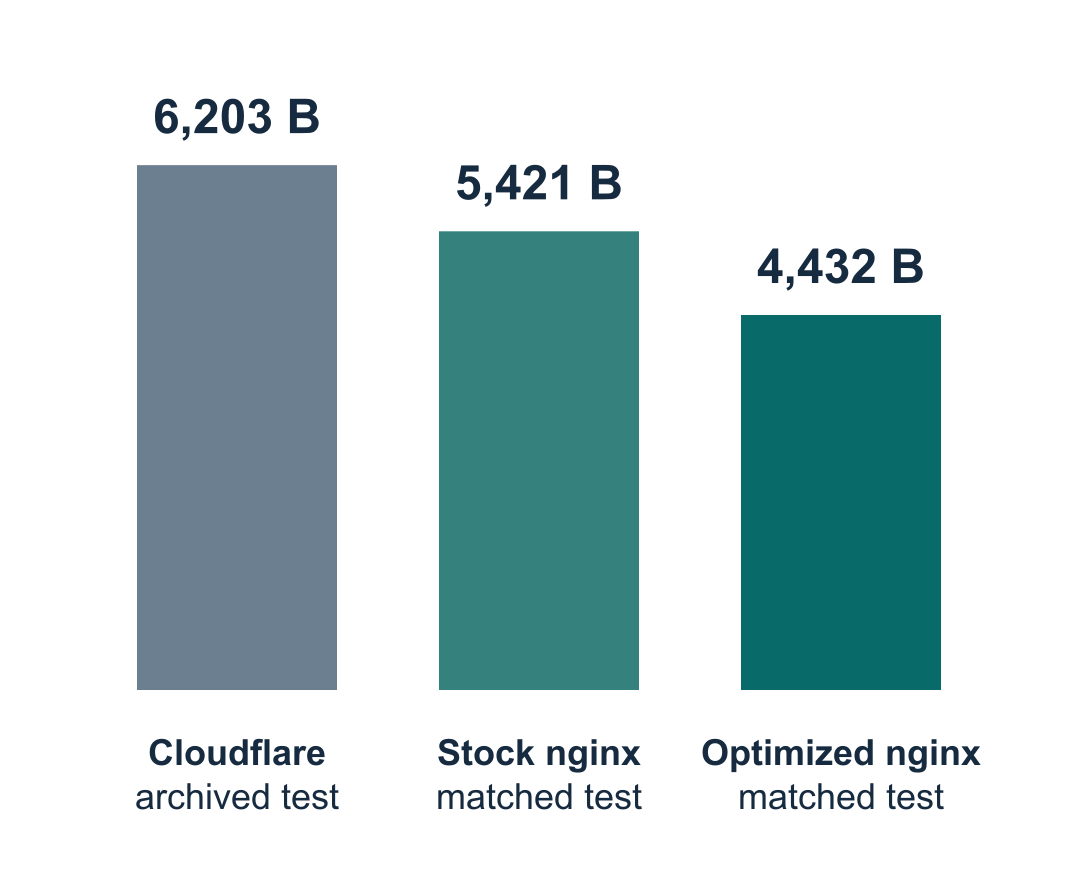
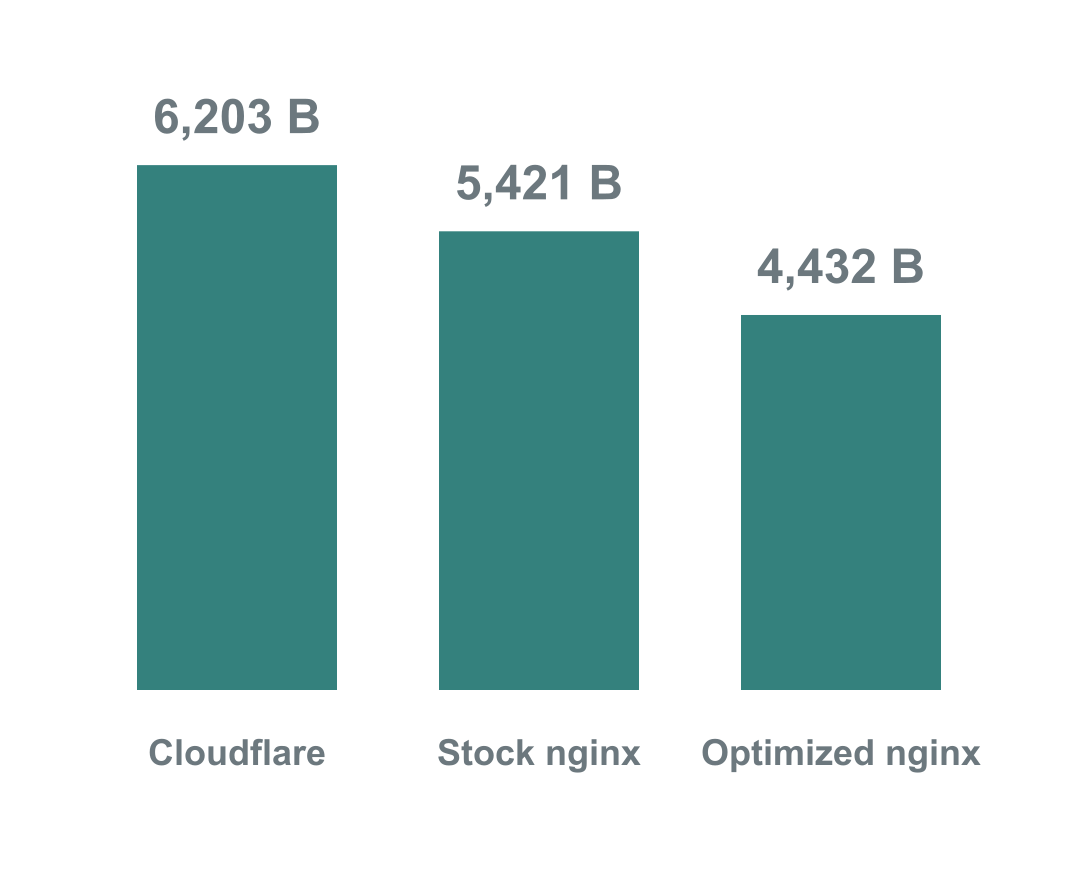
Make delivery chart transparent and theme aware

diff --git a/docs/delivery-overhead/README.md b/docs/delivery-overhead/README.md
@@ -4,9 +4,9 @@ The graph counts **TLS bytes sent and received on a cold connection through the 
 
 | Graph label | Overhead | Meaning |
 | --- | ---: | --- |
-| Cloudflare (archived) | 6,203 B | September 10, 2026 temporary-route control |
-| Default self-hosted (test) | 5,421 B | Stock nginx 1.30.4; median of 5,420 / 5,421 / 5,421 B |
-| Optimized self-hosted (test) | 4,432 B | Patched nginx 1.30.4; three samples of 4,432 B |
+| Cloudflare | 6,203 B | September 10, 2026 temporary-route control |
+| Stock nginx | 5,421 B | Stock nginx 1.30.4; median of 5,420 / 5,421 / 5,421 B |
+| Optimized nginx | 4,432 B | Patched nginx 1.30.4; three samples of 4,432 B |
 
 **The two self-hosted bars are matched test setups, not production measurements.** Both use the same generated ECDSA P-256 leaf/intermediate chain and explicit test CA. No production key or system trust store was accessed or changed. The [separate trusted live measurement](fresh-measurement.json) remains **5,252 B** with its different production certificate. It has not improved to 4,432 B.
 
@@ -55,4 +55,4 @@ npm install --prefix /tmp/onekb-graph-render --no-save --package-lock=false shar
 SHARP_MODULE=/tmp/onekb-graph-render/node_modules/sharp node docs/delivery-overhead/render.mjs
 ```
 
-The renderer uses the archived Cloudflare point and the primary fixture medians. Bars start at zero and share one scale; the labels identify the archived control and the matched tests. The separately measured live result is described above, not plotted as a matched test. The README uses the accessible SVG; a PNG is also generated for preview. This is documentation only and adds no request to the live page.
+The renderer uses the archived Cloudflare point and the primary fixture medians. Bars start at zero and share one scale; their measurement context is described above and in the accessible image description. The separately measured live result is described above, not plotted as a matched test. The README's two links use GitHub's theme markers to select one view of the same transparent SVG, including when the site and system themes differ. A Markdown renderer without those markers may display both links. The unfragmented SVG uses a neutral palette for direct viewing, and a PNG is also generated for preview. This is documentation only and adds no request to the live page.

diff --git a/README.md b/README.md
@@ -6,7 +6,7 @@ Certificates and connection setup cost more than the page itself. Precompressed 
 
 ## Delivery overhead
 
-![Cold-connection TLS overhead: an archived Cloudflare test measured 6,203 B; matched nginx tests measured 5,421 B stock and 4,432 B optimized.](docs/delivery-overhead/delivery-overhead.svg)
+![Cold-connection TLS overhead: an archived Cloudflare test measured 6,203 B; matched nginx tests measured 5,421 B stock and 4,432 B optimized.](docs/delivery-overhead/delivery-overhead.svg#gh-light-mode-only) ![Cold-connection TLS overhead: an archived Cloudflare test measured 6,203 B; matched nginx tests measured 5,421 B stock and 4,432 B optimized.](docs/delivery-overhead/delivery-overhead.svg#gh-dark-mode-only)
 
 TLS bytes through the first complete HTTP/2 response, excluding the entire page body, TCP/IP, DNS and connection close. The nginx tests used the same certificate chain; Cloudflare is a separate archived temporary-route control. The October 26 live median was 5,252 B with a different certificate. [Definition, samples and method](docs/delivery-overhead/).
 
